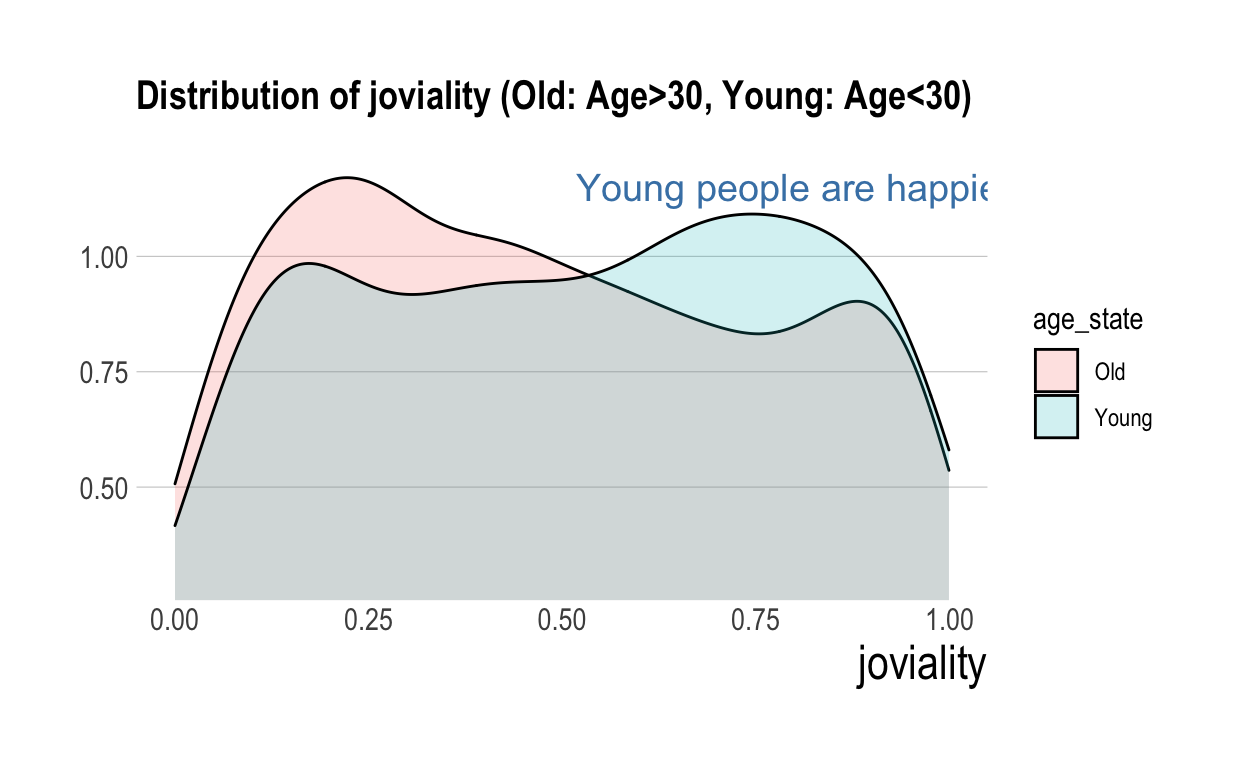
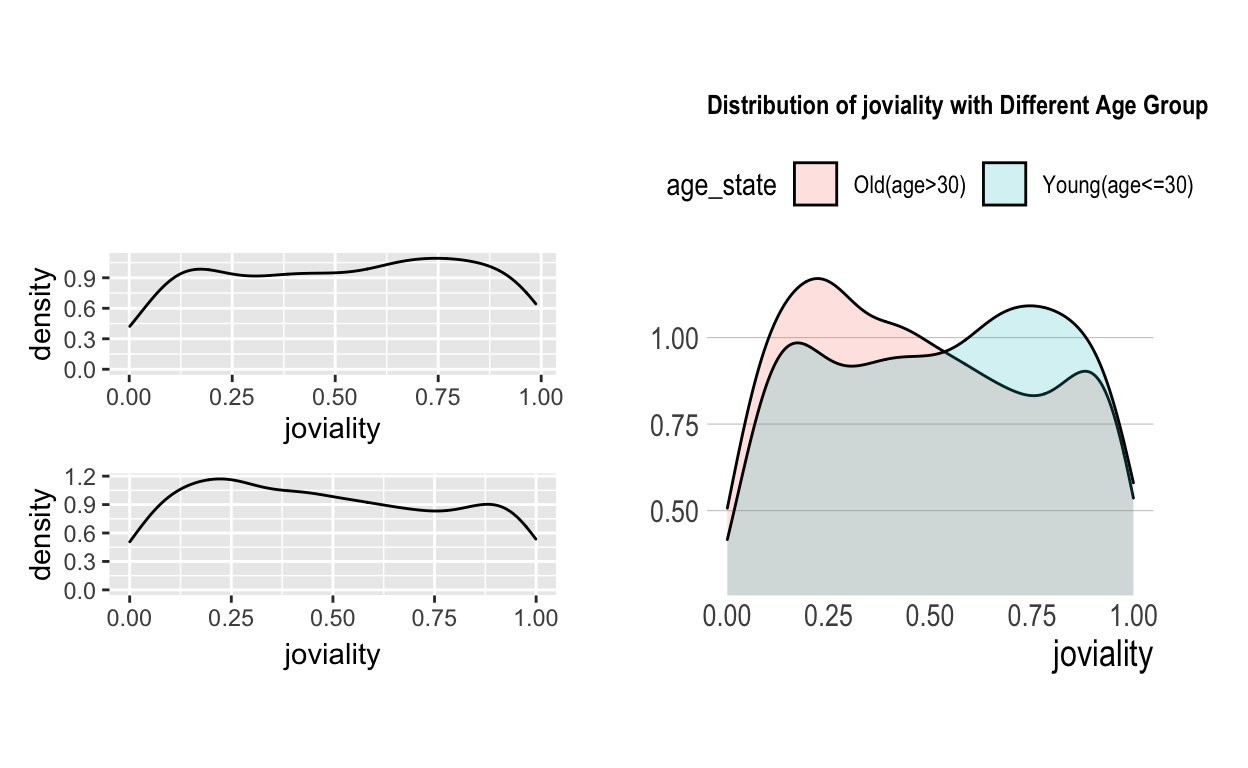
update exe2

diff --git a/_site/Exe2.html b/_site/Exe2.html
@@ -2181,18 +2181,40 @@ fill <span class='op'>=</span> <span class='va'>age_state</span><span class='op'
 <p><img src="Exe2_files/figure-html5/unnamed-chunk-1-1.png" width="624" /></p>
 </div>
 <p>The left part’s meaning is the same as the right one, both want to
-compare the joviality of different age groups. So we just simplify this
+compare the joviality of different age groups, but we need to show what
+is the meaning of old and young. Also, the titles in the left part is
+redundant, so we need to eliminate them. hence we just simplify this
 graph</p>
 <div class="layout-chunk" data-layout="l-body">
 <div class="sourceCode">
-<pre class="sourceCode r"><code class="sourceCode r"><span class='fu'>ggplot</span><span class='op'>(</span>data<span class='op'>=</span><span class='va'>participants_data</span>,
+<pre class="sourceCode r"><code class="sourceCode r"><span class='va'>participants_data</span><span class='op'>$</span><span class='va'>age_state</span> <span class='op'>=</span> <span class='fu'><a href='https://rdrr.io/r/base/ifelse.html'>ifelse</a></span><span class='op'>(</span>
+    test <span class='op'>=</span> <span class='va'>participants_data</span><span class='op'>$</span><span class='va'>age</span> <span class='op'>&gt;</span> <span class='fl'>30</span>,
+    yes <span class='op'>=</span> <span class='st'>"Old(age&gt;30)"</span>,
+    no <span class='op'>=</span> <span class='st'>"Young(age&lt;=30)"</span>
+<span class='op'>)</span>
+<span class='co'># Make it a factor</span>
+<span class='va'>participants_data</span><span class='op'>$</span><span class='va'>age_state</span> <span class='op'>=</span> <span class='fu'><a href='https://rdrr.io/r/base/factor.html'>factor</a></span><span class='op'>(</span>
+    <span class='va'>participants_data</span><span class='op'>$</span><span class='va'>age_state</span>,
+    levels <span class='op'>=</span> <span class='fu'><a href='https://rdrr.io/r/base/c.html'>c</a></span><span class='op'>(</span><span class='st'>"Old(age&gt;30)"</span>, <span class='st'>"Young(age&lt;=30)"</span><span class='op'>)</span>
+<span class='op'>)</span>
+<span class='va'>p1</span> <span class='op'>=</span> <span class='fu'>ggplot</span><span class='op'>(</span>data<span class='op'>=</span><span class='fu'><a href='https://rdrr.io/r/base/subset.html'>subset</a></span><span class='op'>(</span><span class='va'>participants_data</span>,<span class='va'>age_state</span><span class='op'>==</span><span class='st'>'Young(age&lt;=30)'</span><span class='op'>)</span>, 
+       <span class='fu'>aes</span><span class='op'>(</span>x <span class='op'>=</span> <span class='va'>joviality</span><span class='op'>)</span><span class='op'>)</span> <span class='op'>+</span> 
+  <span class='fu'>geom_density</span><span class='op'>(</span><span class='op'>)</span> <span class='op'>+</span>
+  <span class='fu'>theme</span><span class='op'>(</span>plot.title <span class='op'>=</span> <span class='fu'>element_text</span><span class='op'>(</span>size <span class='op'>=</span> <span class='fl'>10</span><span class='op'>)</span><span class='op'>)</span> 
+<span class='va'>p2</span> <span class='op'>=</span> <span class='fu'>ggplot</span><span class='op'>(</span>data<span class='op'>=</span><span class='fu'><a href='https://rdrr.io/r/base/subset.html'>subset</a></span><span class='op'>(</span><span class='va'>participants_data</span>,<span class='va'>age_state</span><span class='op'>==</span><span class='st'>'Old(age&gt;30)'</span><span class='op'>)</span>, 
+       <span class='fu'>aes</span><span class='op'>(</span>x <span class='op'>=</span> <span class='va'>joviality</span><span class='op'>)</span><span class='op'>)</span> <span class='op'>+</span> 
+  <span class='fu'>geom_density</span><span class='op'>(</span><span class='op'>)</span> <span class='op'>+</span>
+  <span class='fu'>theme</span><span class='op'>(</span>plot.title <span class='op'>=</span> <span class='fu'>element_text</span><span class='op'>(</span>size <span class='op'>=</span> <span class='fl'>10</span><span class='op'>)</span><span class='op'>)</span>
+<span class='va'>p3</span> <span class='op'>=</span> <span class='fu'>ggplot</span><span class='op'>(</span>data<span class='op'>=</span><span class='va'>participants_data</span>,
 <span class='fu'>aes</span><span class='op'>(</span>x<span class='op'>=</span> <span class='va'>joviality</span>,
 fill <span class='op'>=</span> <span class='va'>age_state</span><span class='op'>)</span><span class='op'>)</span> <span class='op'>+</span>
 <span class='fu'>geom_density</span><span class='op'>(</span>alpha<span class='op'>=</span><span class='fl'>0.2</span><span class='op'>)</span> <span class='op'>+</span> <span class='fu'>coord_cartesian</span><span class='op'>(</span>ylim <span class='op'>=</span> <span class='fu'><a href='https://rdrr.io/r/base/c.html'>c</a></span><span class='op'>(</span><span class='fl'>0.3</span>, <span class='fl'>1.2</span><span class='op'>)</span><span class='op'>)</span> <span class='op'>+</span>
-  <span class='fu'>annotate</span><span class='op'>(</span><span class='st'>"text"</span>, x <span class='op'>=</span> <span class='fl'>0.8</span>, y <span class='op'>=</span> <span class='fl'>1.15</span>, label <span class='op'>=</span> <span class='st'>"Young people are happier"</span>,size<span class='op'>=</span><span class='fl'>5</span>,color<span class='op'>=</span><span class='st'>'#4682B4'</span><span class='op'>)</span> <span class='op'>+</span>
-  <span class='fu'>ggtitle</span><span class='op'>(</span><span class='st'>"Distribution of joviality (Old: Age&gt;30, Young: Age&lt;30)"</span><span class='op'>)</span> <span class='op'>+</span>
-  <span class='fu'>theme_ipsum</span><span class='op'>(</span>grid <span class='op'>=</span> <span class='st'>"Y"</span>, axis_title_size <span class='op'>=</span> <span class='fl'>18</span><span class='op'>)</span> <span class='op'>+</span> 
-  <span class='fu'>theme</span><span class='op'>(</span>plot.title <span class='op'>=</span> <span class='fu'>element_text</span><span class='op'>(</span>size <span class='op'>=</span> <span class='fl'>15</span><span class='op'>)</span>, axis.title.y <span class='op'>=</span> <span class='fu'>element_blank</span><span class='op'>(</span><span class='op'>)</span><span class='op'>)</span>
+  <span class='fu'>ggtitle</span><span class='op'>(</span><span class='st'>"Distribution of joviality with Different Age Group"</span><span class='op'>)</span> <span class='op'>+</span>
+  <span class='fu'>theme_ipsum</span><span class='op'>(</span>grid <span class='op'>=</span> <span class='st'>"Y"</span>, axis_title_size <span class='op'>=</span> <span class='fl'>14</span><span class='op'>)</span> <span class='op'>+</span> 
+  <span class='fu'>theme</span><span class='op'>(</span>plot.title <span class='op'>=</span> <span class='fu'>element_text</span><span class='op'>(</span>size <span class='op'>=</span> <span class='fl'>10</span><span class='op'>)</span>, 
+        axis.title.y <span class='op'>=</span> <span class='fu'>element_blank</span><span class='op'>(</span><span class='op'>)</span>, legend.position <span class='op'>=</span> <span class='st'>"top"</span><span class='op'>)</span>
+<span class='op'>(</span><span class='va'>p1</span> <span class='op'>/</span> <span class='va'>p2</span><span class='op'>)</span> <span class='op'>|</span> <span class='op'>(</span><span class='va'>p3</span><span class='op'>+</span>
+  <span class='fu'>scale_y_continuous</span><span class='op'>(</span>name<span class='op'>=</span><span class='st'>"density"</span>, limits<span class='op'>=</span><span class='fu'><a href='https://rdrr.io/r/base/c.html'>c</a></span><span class='op'>(</span><span class='fl'>0.0</span>, <span class='fl'>1.2</span><span class='op'>)</span><span class='op'>)</span><span class='op'>)</span>
 </code></pre>
 </div>
 <p><img src="Exe2_files/figure-html5/unnamed-chunk-2-1.png" width="624" /></p>
@@ -2260,7 +2282,8 @@ good alternative. So to modify it, we change it to:</p>
 <span class='fu'>ggplot</span><span class='op'>(</span>data<span class='op'>=</span><span class='va'>agg_happy</span>, <span class='fu'>aes</span><span class='op'>(</span>x<span class='op'>=</span><span class='va'>householdSize</span>, y<span class='op'>=</span><span class='va'>joviality</span><span class='op'>)</span><span class='op'>)</span> <span class='op'>+</span> 
   <span class='fu'>geom_bar</span><span class='op'>(</span>stat <span class='op'>=</span> <span class='st'>"identity"</span>, width <span class='op'>=</span> <span class='fl'>0.5</span>, fill<span class='op'>=</span><span class='st'>"steelblue"</span><span class='op'>)</span> <span class='op'>+</span>
   <span class='fu'>coord_cartesian</span><span class='op'>(</span>ylim <span class='op'>=</span> <span class='fu'><a href='https://rdrr.io/r/base/c.html'>c</a></span><span class='op'>(</span><span class='fl'>0.45</span>, <span class='fl'>0.51</span><span class='op'>)</span><span class='op'>)</span> <span class='op'>+</span> 
-  <span class='fu'>ggtitle</span><span class='op'>(</span><span class='st'>"Average Joviality for different HouseholdSize"</span><span class='op'>)</span><span class='op'>+</span>
+  <span class='fu'>ggtitle</span><span class='op'>(</span><span class='st'>"Average Joviality for different HouseholdSize"</span><span class='op'>)</span> <span class='op'>+</span>
+  <span class='fu'>scale_x_discrete</span><span class='op'>(</span>name <span class='op'>=</span><span class='st'>"householdSize"</span>, limits<span class='op'>=</span><span class='fu'><a href='https://rdrr.io/r/base/c.html'>c</a></span><span class='op'>(</span><span class='st'>"1"</span>,<span class='st'>"2"</span>,<span class='st'>"3"</span><span class='op'>)</span><span class='op'>)</span> <span class='op'>+</span>
   <span class='fu'>geom_text</span><span class='op'>(</span><span class='fu'>aes</span><span class='op'>(</span>label <span class='op'>=</span> <span class='va'>joviality</span><span class='op'>)</span>, vjust <span class='op'>=</span> <span class='fl'>1.5</span>, colour <span class='op'>=</span> <span class='st'>"white"</span><span class='op'>)</span><span class='op'>+</span>
   <span class='fu'>theme_ipsum</span><span class='op'>(</span>grid <span class='op'>=</span> <span class='st'>"Y"</span>, axis_title_size <span class='op'>=</span> <span class='fl'>18</span><span class='op'>)</span> <span class='op'>+</span> 
   <span class='fu'>theme</span><span class='op'>(</span>plot.title <span class='op'>=</span> <span class='fu'>element_text</span><span class='op'>(</span>size <span class='op'>=</span> <span class='fl'>15</span><span class='op'>)</span>, axis.title.y <span class='op'>=</span> <span class='fu'>element_blank</span><span class='op'>(</span><span class='op'>)</span><span class='op'>)</span>
@@ -2286,10 +2309,12 @@ good alternative. So to modify it, we change it to:</p>
 <p><img src="Exe2_files/figure-html5/unnamed-chunk-5-1.png" width="624" /></p>
 </div>
 <p>the expression is correct, but the legend takes almost half of the
-plot, which is not very reasonable, so I just simply modify it by:</p>
+plot, which is not very reasonable. Also,we need to avoid using multiple
+colours if the y-axis label already clearly indicate the education level
+and edit the axis label properly.. So I just simply modify it by:</p>
 <div class="layout-chunk" data-layout="l-body">
 <div class="sourceCode">
-<pre class="sourceCode r"><code class="sourceCode r"><span class='fu'>ggplot</span><span class='op'>(</span><span class='va'>participants_data</span>, <span class='fu'>aes</span><span class='op'>(</span>x <span class='op'>=</span> <span class='va'>joviality</span>, y <span class='op'>=</span> <span class='va'>educationLevel</span>, fill <span class='op'>=</span> <span class='va'>educationLevel</span><span class='op'>)</span><span class='op'>)</span> <span class='op'>+</span>
+<pre class="sourceCode r"><code class="sourceCode r"><span class='fu'>ggplot</span><span class='op'>(</span><span class='va'>participants_data</span>, <span class='fu'>aes</span><span class='op'>(</span>x <span class='op'>=</span> <span class='va'>joviality</span>, y <span class='op'>=</span> <span class='va'>educationLevel</span><span class='op'>)</span><span class='op'>)</span> <span class='op'>+</span>
   <span class='fu'>geom_density_ridges</span><span class='op'>(</span>geom <span class='op'>=</span> <span class='st'>"density_ridges_gradient"</span>, 
                       calc_ecdf <span class='op'>=</span> <span class='cn'>TRUE</span>,
                       quantiles <span class='op'>=</span> <span class='fl'>4</span>, 

diff --git a/_site/python-gallery/README.md b/_site/python-gallery/README.md
@@ -1,0 +1,3 @@
+# gallery-pyplot
+
+A Gallery for plots built by python-relative library
